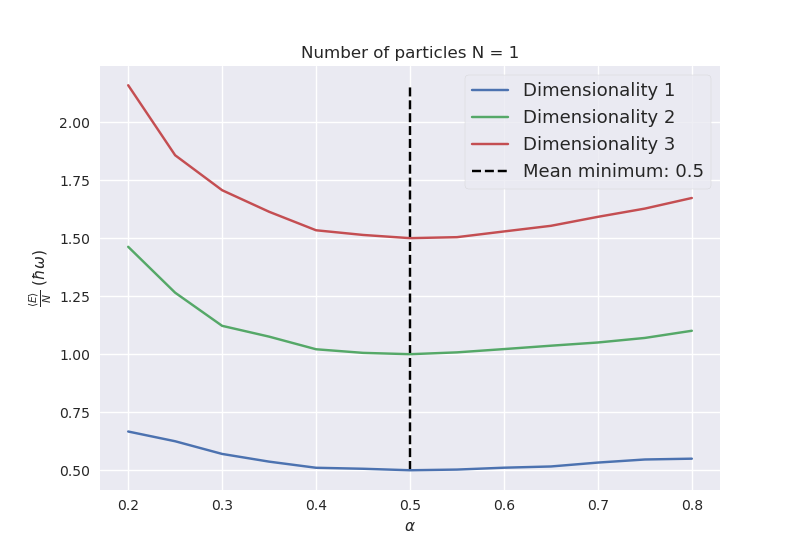
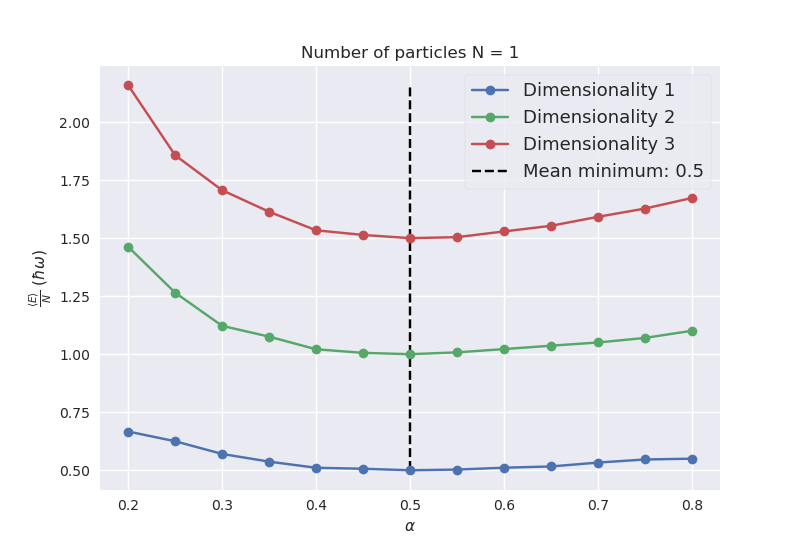
Dotlines are a more correct representation

diff --git a/vmc/python/dim_and_n.py b/vmc/python/dim_and_n.py
@@ -40,9 +40,9 @@ for N in list(set(mean_data["N"])):
             if d == 3:
                 x3.append(a), y3.append(e / N)
 
-    plt.plot(x1, y1, label="Dimensionality 1")
-    plt.plot(x2, y2, label="Dimensionality 2")
-    plt.plot(x3, y3, label="Dimensionality 3")
+    plt.plot(x1, y1, "-o", label="Dimensionality 1")
+    plt.plot(x2, y2, "-o", label="Dimensionality 2")
+    plt.plot(x3, y3, "-o", label="Dimensionality 3")
     mean_min = mean([x[y.index(min(y))] for x, y in [(x1, y1), (x2, y2), (x3, y3)]])
     plt.vlines(mean_min, min(y1), max(y3), colors="black", linestyles="dashed", label=f"Mean minimum: {round(mean_min, 2)}")
     plt.title(f"Number of particles N = {int(N)}")
@@ -66,10 +66,10 @@ for N in list(set(mean_data["N"])):
                 x3.append(a), y3.append(e)
 
     plt.clf()
-    plt.plot(x1, y1, label="Dimensionality 1")
-    plt.plot(x2, y2, label="Dimensionality 2")
-    plt.plot(x3, y3, label="Dimensionality 3")
-    plt.title(f"Number of particles N = {N}")
+    plt.plot(x1, y1, "-o", label="Dimensionality 1")
+    plt.plot(x2, y2, "-o", label="Dimensionality 2")
+    plt.plot(x3, y3, "-o", label="Dimensionality 3")
+    plt.title(f"Number of particles N = {int(N)}")
     plt.xlabel(r"$\alpha$")
     plt.ylabel(r"$\sigma_{\langle E\rangle}$")
     plt.legend(loc = 1, prop = {'size':13}, frameon = True)
